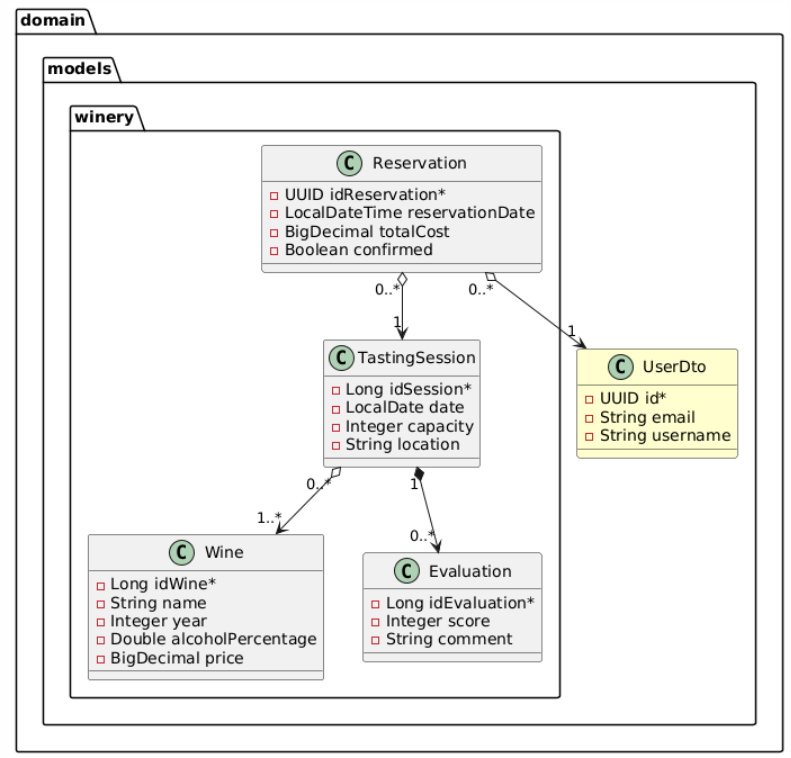
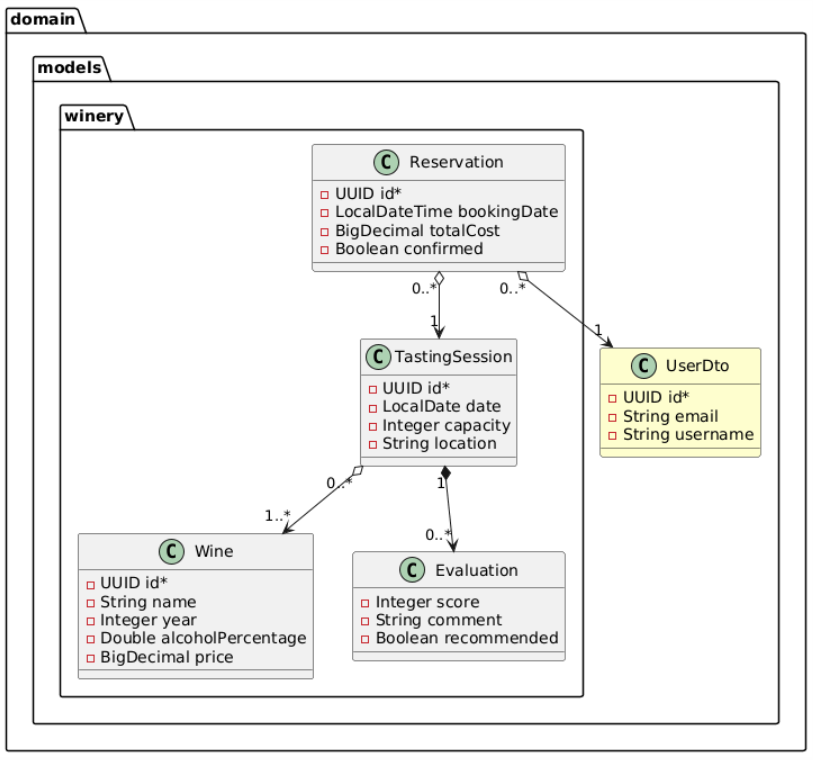
edit UML & model classes #1167

Changed region(s): [[0.0, 0.0, 1.0, 1.0]]

diff --git a/src/main/java/es/upm/miw/apaw/adapters/mongodb/winery/daos/WinerySeeder.java b/src/main/java/es/upm/miw/apaw/adapters/mongodb/winery/daos/WinerySeeder.java
@@ -39,29 +39,34 @@ public class WinerySeeder {
 
         // Wines
         WineEntity[] wines = {
-                WineEntity.builder().idWine(1L).name("Cabernet Sauvignon").year(2020)
+                WineEntity.builder().id(UUID.fromString("aaaaaaaa-bbbb-cccc-dddd-eeeeffff0001"))
+                        .name("Cabernet Sauvignon").year(2020)
                         .alcoholPercentage(13.5).price(new BigDecimal("25.50")).build(),
-                WineEntity.builder().idWine(2L).name("Merlot").year(2019)
+                WineEntity.builder().id(UUID.fromString("aaaaaaaa-bbbb-cccc-dddd-eeeeffff0002"))
+                        .name("Merlot").year(2019)
                         .alcoholPercentage(14.0).price(new BigDecimal("18.90")).build(),
-                WineEntity.builder().idWine(3L).name("Chardonnay").year(2021)
+                WineEntity.builder().id(UUID.fromString("aaaaaaaa-bbbb-cccc-dddd-eeeeffff0003"))
+                        .name("Chardonnay").year(2021)
                         .alcoholPercentage(12.5).price(new BigDecimal("15.75")).build()
         };
         this.wineRepository.saveAll(Arrays.asList(wines));
 
         // Evaluations (creadas directamente en TastingSessions)
         EvaluationEntity eval1 = EvaluationEntity.builder()
-                .idEvaluation(1L).score(5).comment("Excellent balance").build();
+                .score(5).comment("Excellent balance")
+                .recommended(false).build();
         EvaluationEntity eval2 = EvaluationEntity.builder()
-                .idEvaluation(2L).score(4).comment("Fruity and smooth").build();
+                .score(4).comment("Fruity and smooth")
+                .recommended(true).build();
 
         // TastingSessions
         TastingSessionEntity[] sessions = {
-                TastingSessionEntity.builder().idSession(100L).date(LocalDate.now().plusDays(5))
+                TastingSessionEntity.builder().id(UUID.fromString("aaaaaaaa-bbbb-cccc-dddd-eeeeffff0100")).date(LocalDate.now().plusDays(5))
                         .capacity(20).location("Main Hall")
                         .wineEntities(List.of(wines[0], wines[1]))
                         .evaluationEntities(List.of(eval1))
                         .build(),
-                TastingSessionEntity.builder().idSession(101L).date(LocalDate.now().plusDays(10))
+                TastingSessionEntity.builder().id(UUID.fromString("aaaaaaaa-bbbb-cccc-dddd-eeeeffff0101")).date(LocalDate.now().plusDays(10))
                         .capacity(15).location("Garden Room")
                         .wineEntities(List.of(wines[2]))
                         .evaluationEntities(List.of(eval2))
@@ -71,19 +76,19 @@ public class WinerySeeder {
 
         // Reservations
         ReservationEntity[] reservations = {
-                ReservationEntity.builder().idReservation(UUID.fromString("aaaaaaaa-bbbb-cccc-dddd-eeeeffff0100"))
-                        .reservationDate(LocalDateTime.now().plusDays(1))
+                ReservationEntity.builder().id(UUID.fromString("aaaaaaaa-bbbb-cccc-dddd-eeeeffff1000"))
+                        .bookingDate(LocalDateTime.now().plusDays(1))
                         .totalCost(new BigDecimal("40.00"))
                         .confirmed(true)
                         .userId(UUID.fromString("aaaaaaaa-bbbb-cccc-dddd-eeeeffff1000"))
-                        .tastingSessionId(sessions[0].getIdSession())
+                        .tastingSessionId(sessions[0].getId())
                         .build(),
-                ReservationEntity.builder().idReservation(UUID.fromString("aaaaaaaa-bbbb-cccc-dddd-eeeeffff0101"))
-                        .reservationDate(LocalDateTime.now().plusDays(2))
+                ReservationEntity.builder().id(UUID.fromString("aaaaaaaa-bbbb-cccc-dddd-eeeeffff1001"))
+                        .bookingDate(LocalDateTime.now().plusDays(2))
                         .totalCost(new BigDecimal("20.00"))
                         .confirmed(false)
                         .userId(UUID.fromString("aaaaaaaa-bbbb-cccc-dddd-eeeeffff1001"))
-                        .tastingSessionId(sessions[1].getIdSession())
+                        .tastingSessionId(sessions[1].getId())
                         .build()
         };
         this.reservationRepository.saveAll(Arrays.asList(reservations));

diff --git a/src/main/java/es/upm/miw/apaw/adapters/mongodb/winery/entities/ReservationEntity.java b/src/main/java/es/upm/miw/apaw/adapters/mongodb/winery/entities/ReservationEntity.java
@@ -21,24 +21,24 @@ import java.util.UUID;
 public class ReservationEntity {
     @EqualsAndHashCode.Include
     @Id
-    private UUID idReservation;
-    private LocalDateTime reservationDate;
+    private UUID id;
+    private LocalDateTime bookingDate;
     private BigDecimal totalCost;
     private Boolean confirmed;
     private UUID userId;
-    private Long tastingSessionId;
+    private UUID tastingSessionId;
 
     public ReservationEntity(Reservation reservation) {
         BeanUtils.copyProperties(reservation, this, "user", "tastingSession");
         this.userId = reservation.getUser().getId();
-        this.tastingSessionId = reservation.getTastingSession().getIdSession();
+        this.tastingSessionId = reservation.getTastingSession().getId();
     }
 
     public Reservation toReservation() {
         Reservation reservation = new Reservation();
         BeanUtils.copyProperties(this, reservation, "user", "tastingSession");
         reservation.setUser(UserDto.builder().id(userId).build());
-        reservation.setTastingSession(TastingSession.builder().idSession(tastingSessionId).build());
+        reservation.setTastingSession(TastingSession.builder().id(tastingSessionId).build());
         return reservation;
     }
 }

diff --git a/src/main/java/es/upm/miw/apaw/domain/models/winery/TastingSession.java b/src/main/java/es/upm/miw/apaw/domain/models/winery/TastingSession.java
@@ -1,6 +1,5 @@
 package es.upm.miw.apaw.domain.models.winery;
 
-import jakarta.validation.constraints.NotBlank;
 import jakarta.validation.constraints.NotEmpty;
 import jakarta.validation.constraints.NotNull;
 import lombok.AllArgsConstructor;
@@ -10,15 +9,14 @@ import lombok.NoArgsConstructor;
 
 import java.time.LocalDate;
 import java.util.List;
+import java.util.UUID;
 
 @Builder
 @Data
 @NoArgsConstructor
 @AllArgsConstructor
 public class TastingSession {
-    @NotNull
-    @NotBlank
-    private Long idSession;
+    private UUID id;
     private LocalDate date;
     private Integer capacity;
     private String location;

diff --git a/src/main/java/es/upm/miw/apaw/domain/models/winery/Wine.java b/src/main/java/es/upm/miw/apaw/domain/models/winery/Wine.java
@@ -1,22 +1,20 @@
 package es.upm.miw.apaw.domain.models.winery;
 
-import jakarta.validation.constraints.NotBlank;
-import jakarta.validation.constraints.NotNull;
+
 import lombok.AllArgsConstructor;
 import lombok.Builder;
 import lombok.Data;
 import lombok.NoArgsConstructor;
 
 import java.math.BigDecimal;
+import java.util.UUID;
 
 @Builder
 @Data
 @NoArgsConstructor
 @AllArgsConstructor
 public class Wine {
-    @NotNull
-    @NotBlank
-    private Long idWine;
+    private UUID id;
     private String name;
     private Integer year;
     private Double alcoholPercentage;

diff --git a/src/main/java/es/upm/miw/apaw/domain/models/winery/Evaluation.java b/src/main/java/es/upm/miw/apaw/domain/models/winery/Evaluation.java
@@ -1,20 +1,17 @@
 package es.upm.miw.apaw.domain.models.winery;
 
-import jakarta.validation.constraints.NotBlank;
-import jakarta.validation.constraints.NotNull;
 import lombok.AllArgsConstructor;
 import lombok.Builder;
 import lombok.Data;
 import lombok.NoArgsConstructor;
+
 
 @Builder
 @Data
 @NoArgsConstructor
 @AllArgsConstructor
 public class Evaluation {
-    @NotNull
-    @NotBlank
-    private Long idEvaluation;
     private Integer score;
     private String comment;
+    private Boolean recommended;
 }

diff --git a/src/main/java/es/upm/miw/apaw/adapters/mongodb/winery/entities/EvaluationEntity.java b/src/main/java/es/upm/miw/apaw/adapters/mongodb/winery/entities/EvaluationEntity.java
@@ -7,14 +7,16 @@ import lombok.Data;
 import lombok.NoArgsConstructor;
 import org.springframework.beans.BeanUtils;
 
+import java.util.UUID;
+
 @Builder
 @Data
 @NoArgsConstructor
 @AllArgsConstructor
 public class EvaluationEntity {
-    private Long idEvaluation;
     private Integer score;
     private String comment;
+    private Boolean recommended;
 
     public EvaluationEntity(Evaluation evaluation) {
         BeanUtils.copyProperties(evaluation, this);

diff --git a/src/main/java/es/upm/miw/apaw/adapters/mongodb/winery/entities/WineEntity.java b/src/main/java/es/upm/miw/apaw/adapters/mongodb/winery/entities/WineEntity.java
@@ -7,6 +7,7 @@ import org.springframework.data.annotation.Id;
 import org.springframework.data.mongodb.core.mapping.Document;
 
 import java.math.BigDecimal;
+import java.util.UUID;
 
 @Builder
 @Data
@@ -17,7 +18,7 @@ import java.math.BigDecimal;
 public class WineEntity {
     @EqualsAndHashCode.Include
     @Id
-    private Long idWine;
+    private UUID id;
     private String name;
     private Integer year;
     private Double alcoholPercentage;

diff --git a/src/main/java/es/upm/miw/apaw/adapters/mongodb/winery/entities/TastingSessionEntity.java b/src/main/java/es/upm/miw/apaw/adapters/mongodb/winery/entities/TastingSessionEntity.java
@@ -11,6 +11,7 @@ import org.springframework.data.mongodb.core.mapping.Document;
 
 import java.time.LocalDate;
 import java.util.List;
+import java.util.UUID;
 
 
 @Builder
@@ -22,7 +23,7 @@ import java.util.List;
 public class TastingSessionEntity {
     @EqualsAndHashCode.Include
     @Id
-    private Long idSession;
+    private UUID id;
     private LocalDate date;
     private Integer capacity;
     private String location;

diff --git a/src/main/java/es/upm/miw/apaw/domain/models/winery/Reservation.java b/src/main/java/es/upm/miw/apaw/domain/models/winery/Reservation.java
@@ -16,8 +16,8 @@ import java.util.UUID;
 @NoArgsConstructor
 @AllArgsConstructor
 public class Reservation {
-    private UUID idReservation;
-    private LocalDateTime reservationDate;
+    private UUID id;
+    private LocalDateTime bookingDate;
     private BigDecimal totalCost;
     private Boolean confirmed;
     @NotNull
